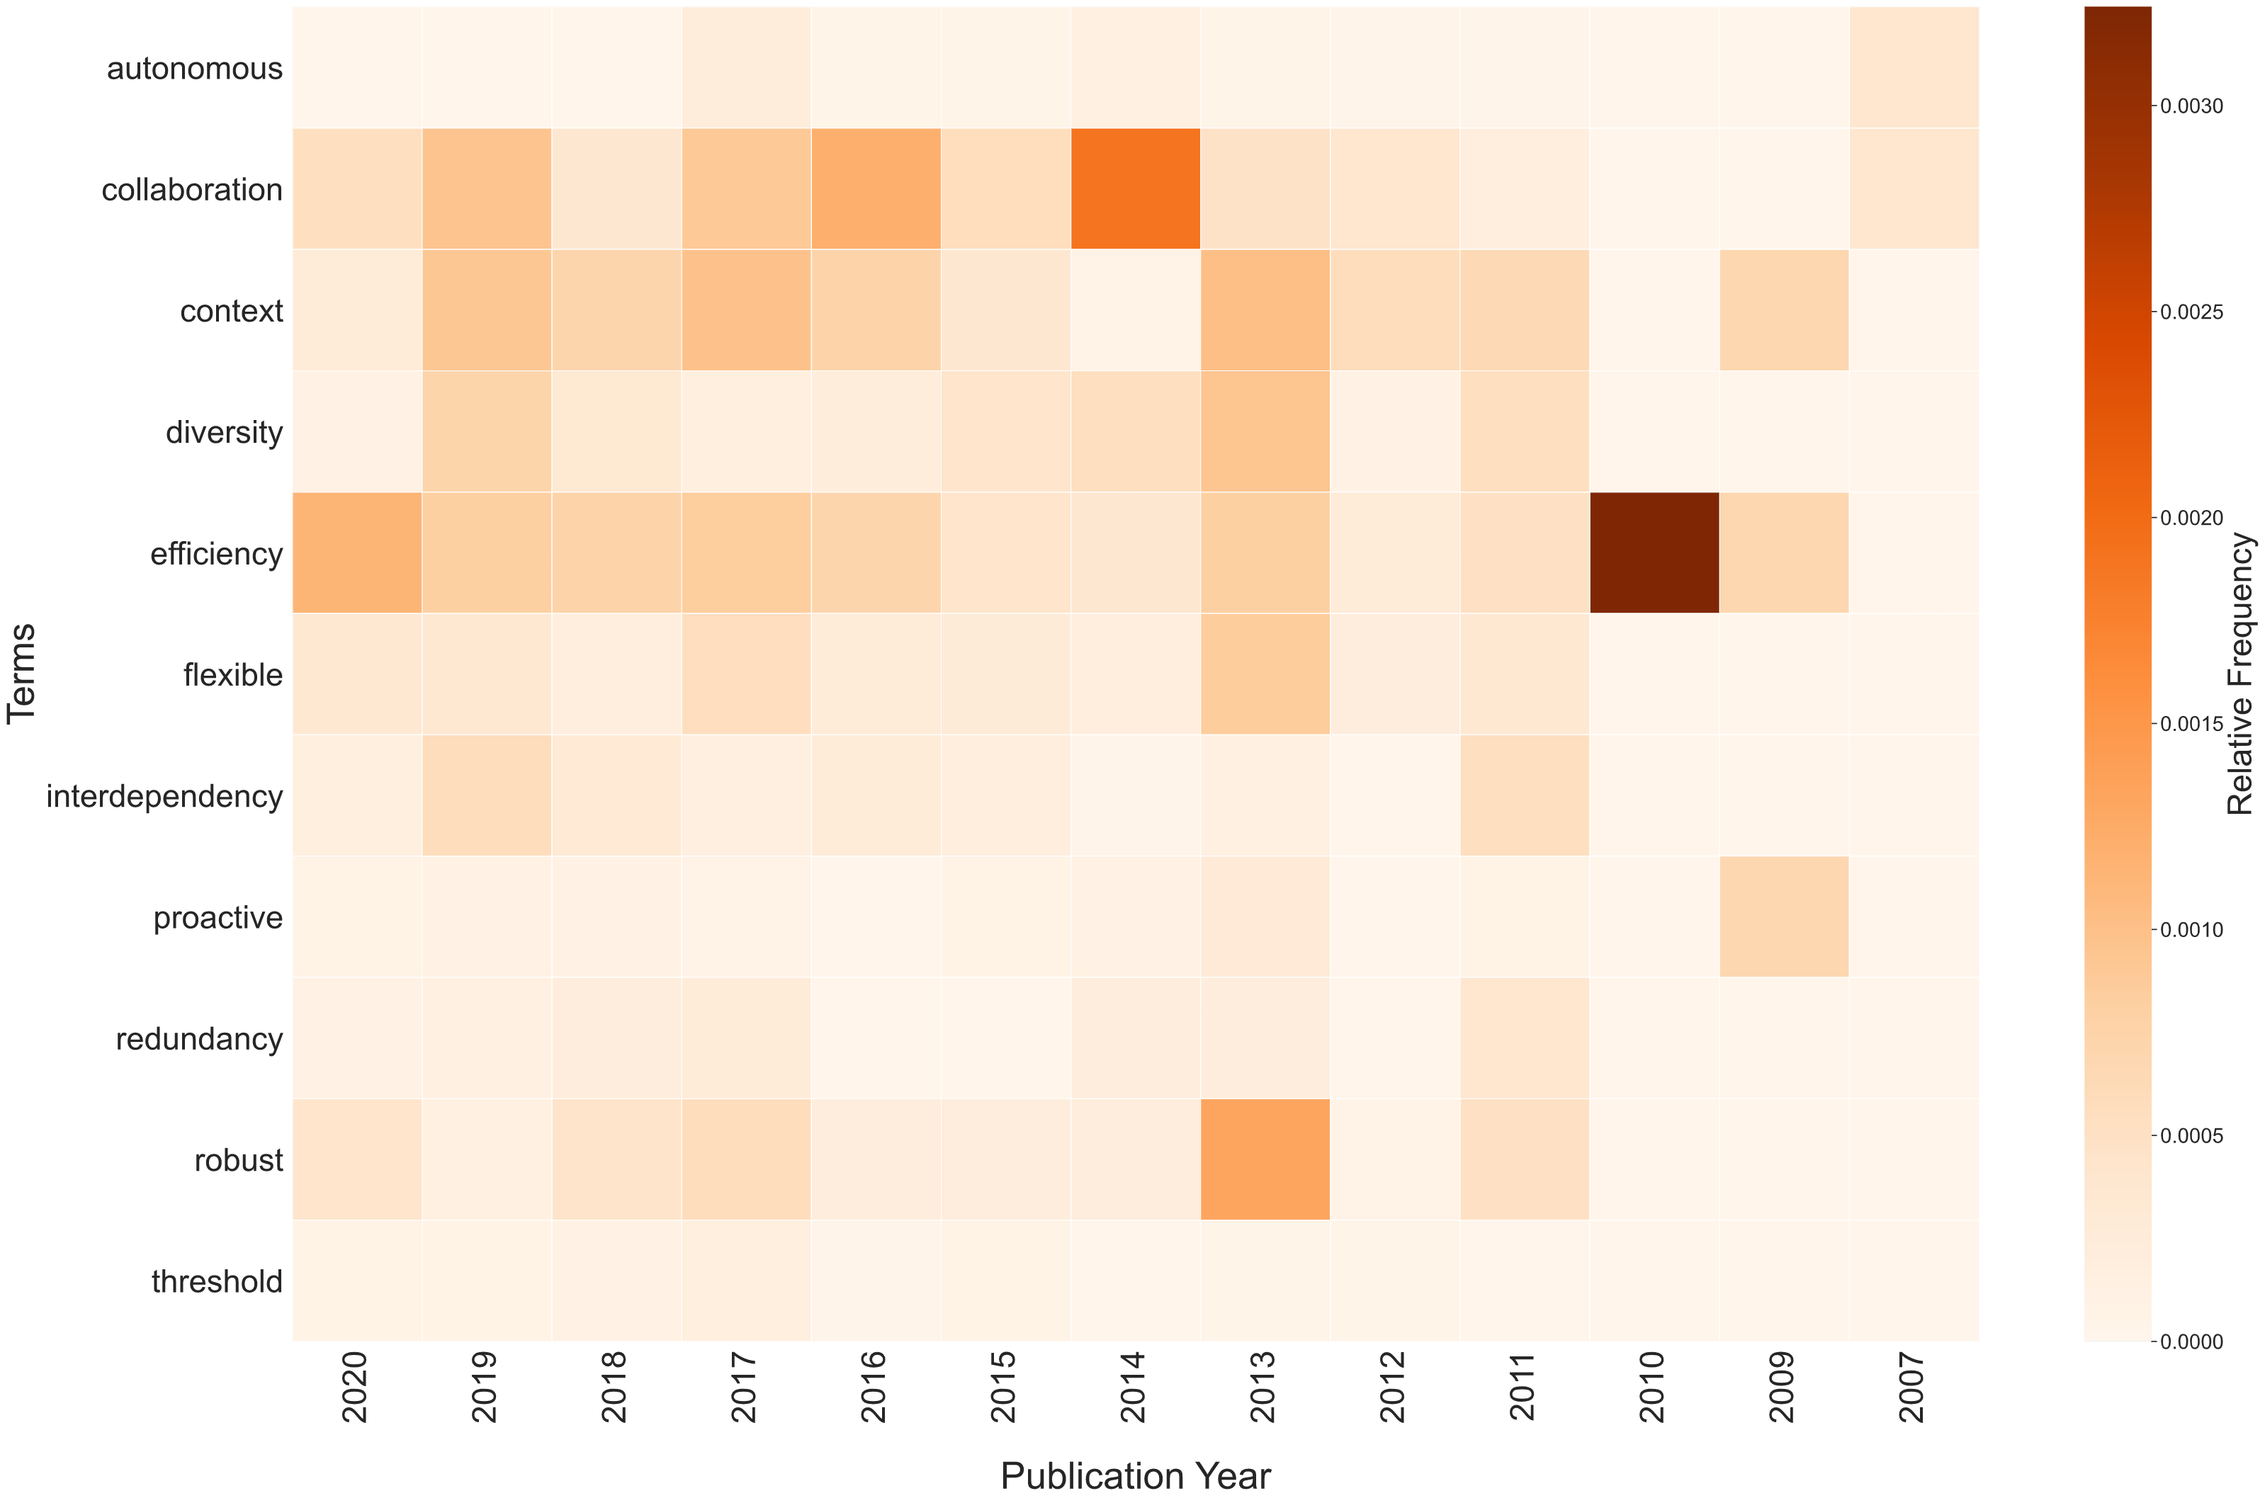
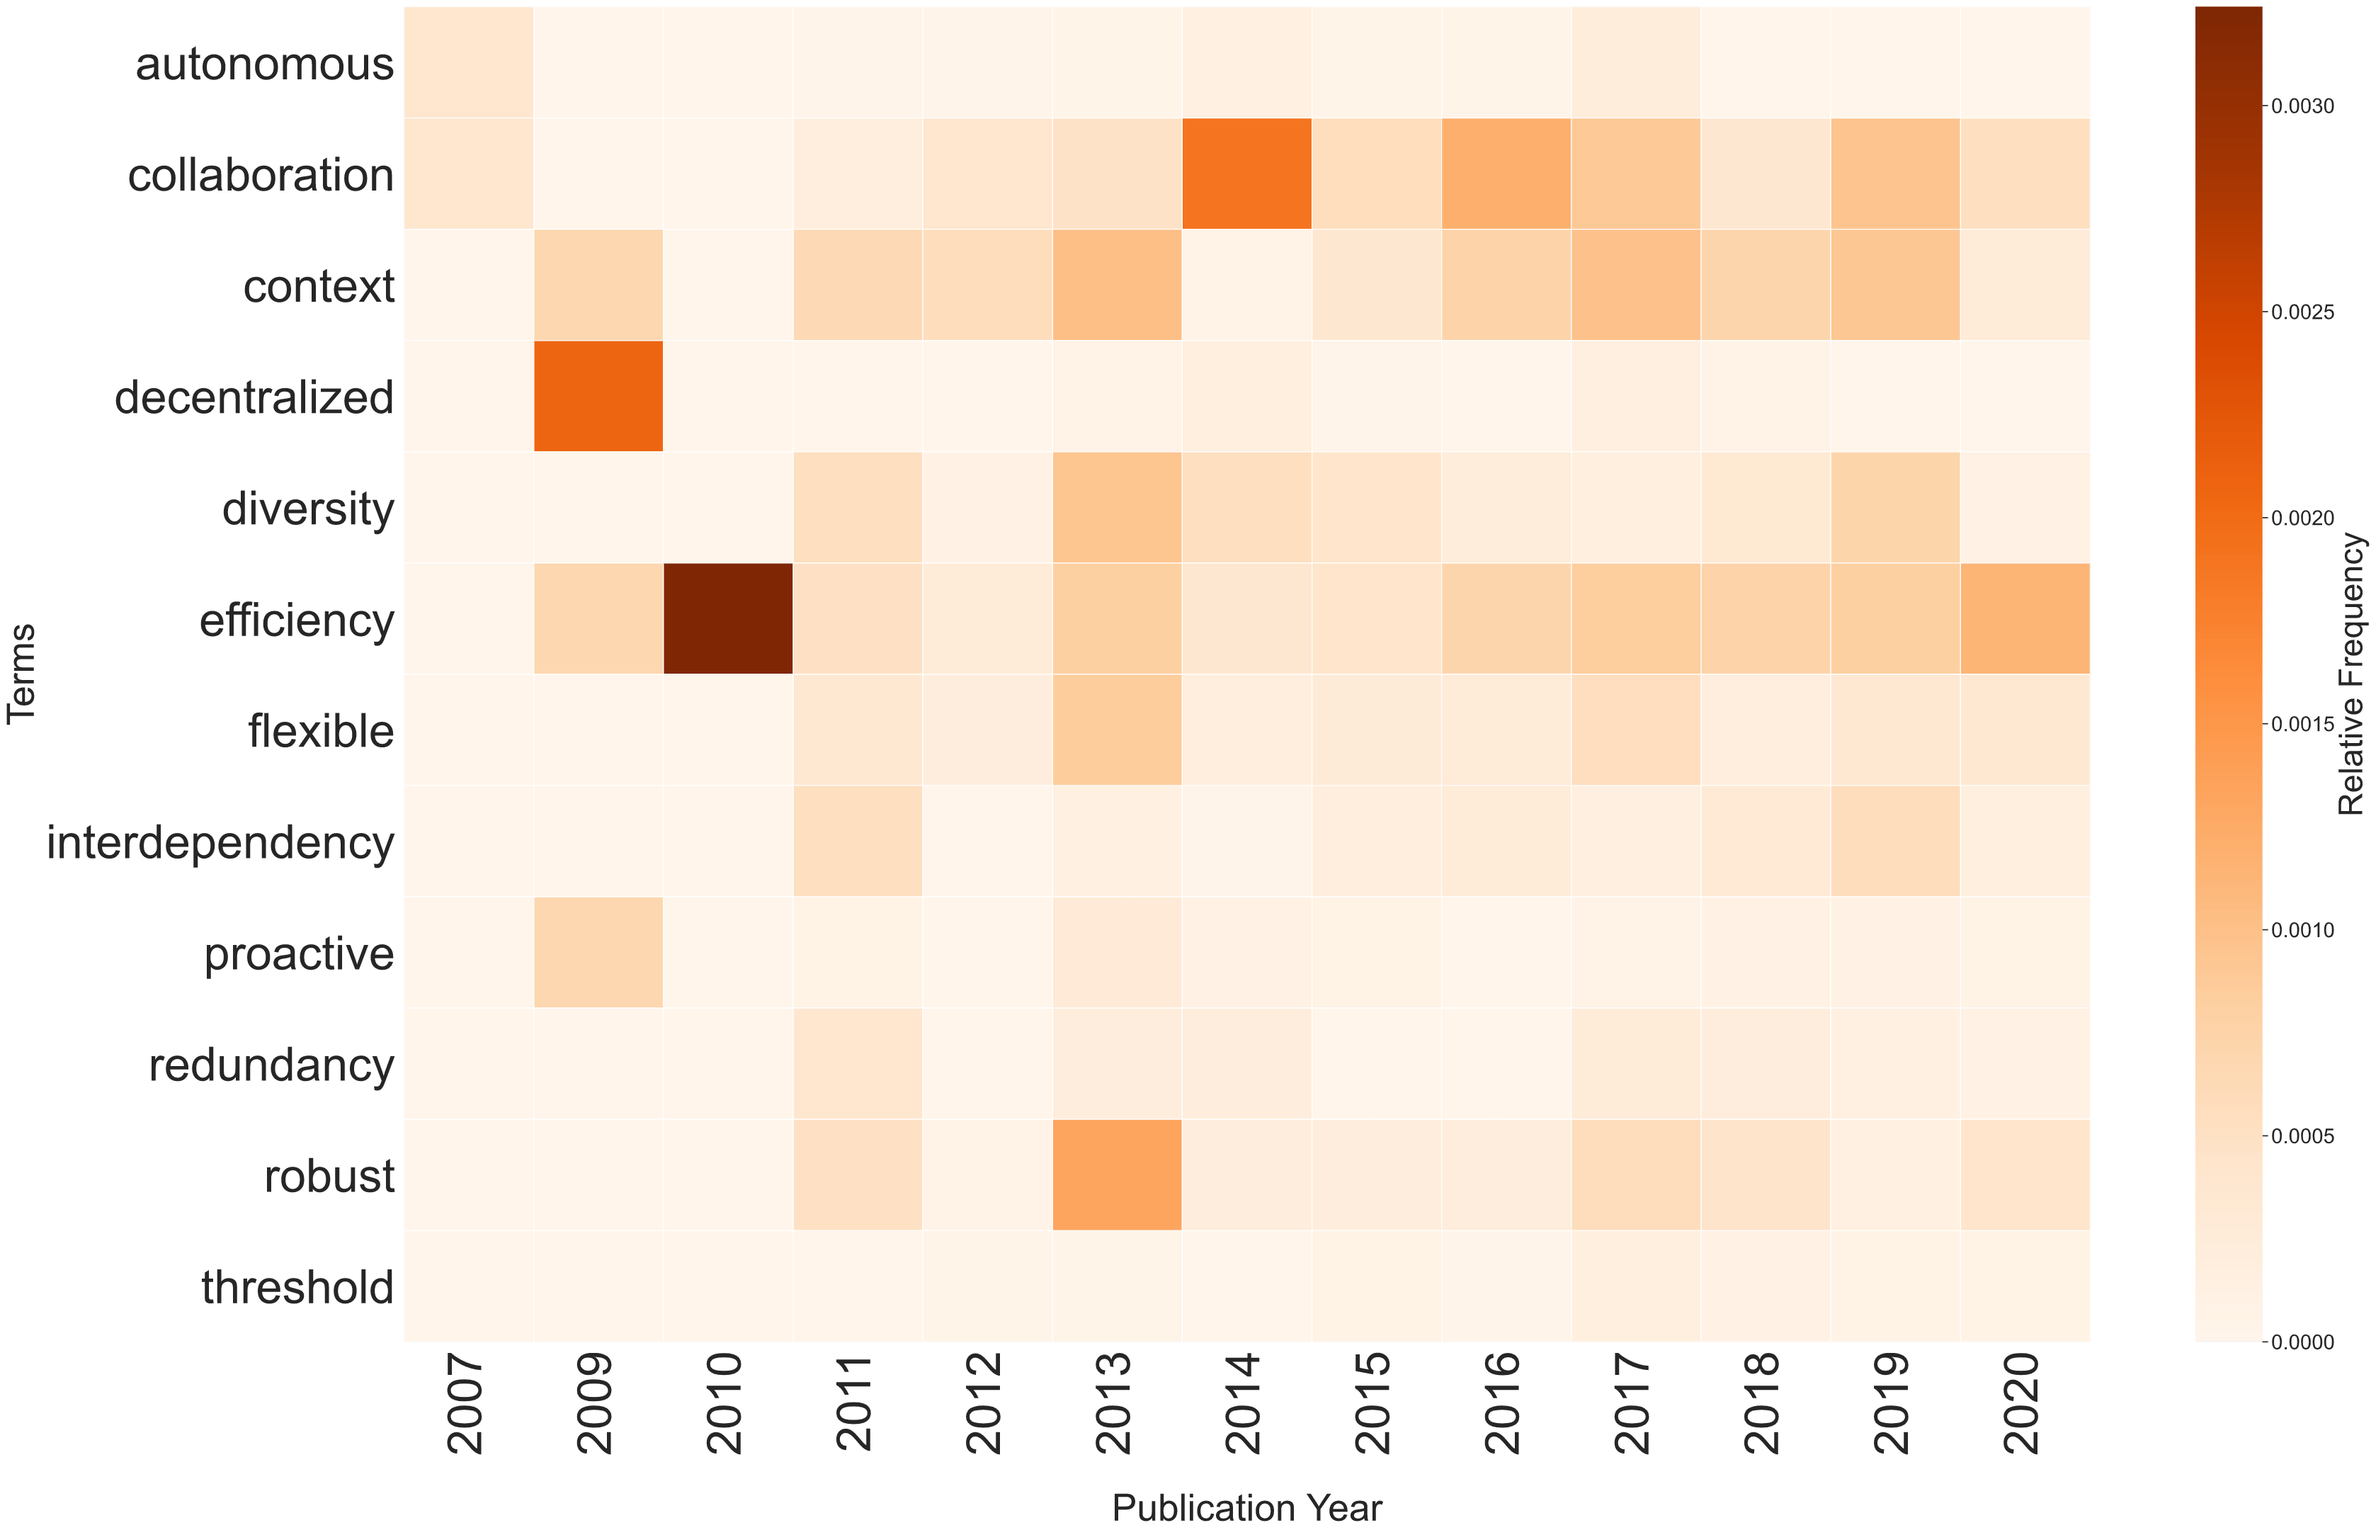
Updated plots

diff --git a/src/LiTCoF-v1.00.py b/src/LiTCoF-v1.00.py
@@ -261,7 +261,7 @@ corpus = [dictionary.doc2bow(text) for text in abstrct]
 
 # Compute Perplexity and Coherence scores
 # Good models have low Perplexity and high Coherence scores
-num_of_topics = [5, 10, 15, 20, 25]
+num_of_topics = [5, 10, 15, 20, 25, 30, 40, 50]
 coherence_scores = []
 perplexity_scores = []
 for i in num_of_topics:
@@ -421,8 +421,8 @@ ax.grid(False)
 
 ax.set_yticks(np.arange(len(unqkeys))+0.5) #Adding 0.5 offset
 ax.set_xticks(np.arange(len(years))+0.5)
-ax.set_yticklabels(unqkeys,rotation= 0, fontsize = 34.0)
-ax.set_xticklabels(years,rotation='vertical', fontsize = 35.0)
+ax.set_yticklabels(unqkeys,rotation= 0, fontsize = 50.0)
+ax.set_xticklabels(years,rotation='vertical', fontsize = 50.0)
 ax.set_xlabel('Publication Year', fontsize = 40.0, labelpad = 40)
 ax.set_ylabel('Terms',fontsize = 40.0, labelpad = 5)
 
